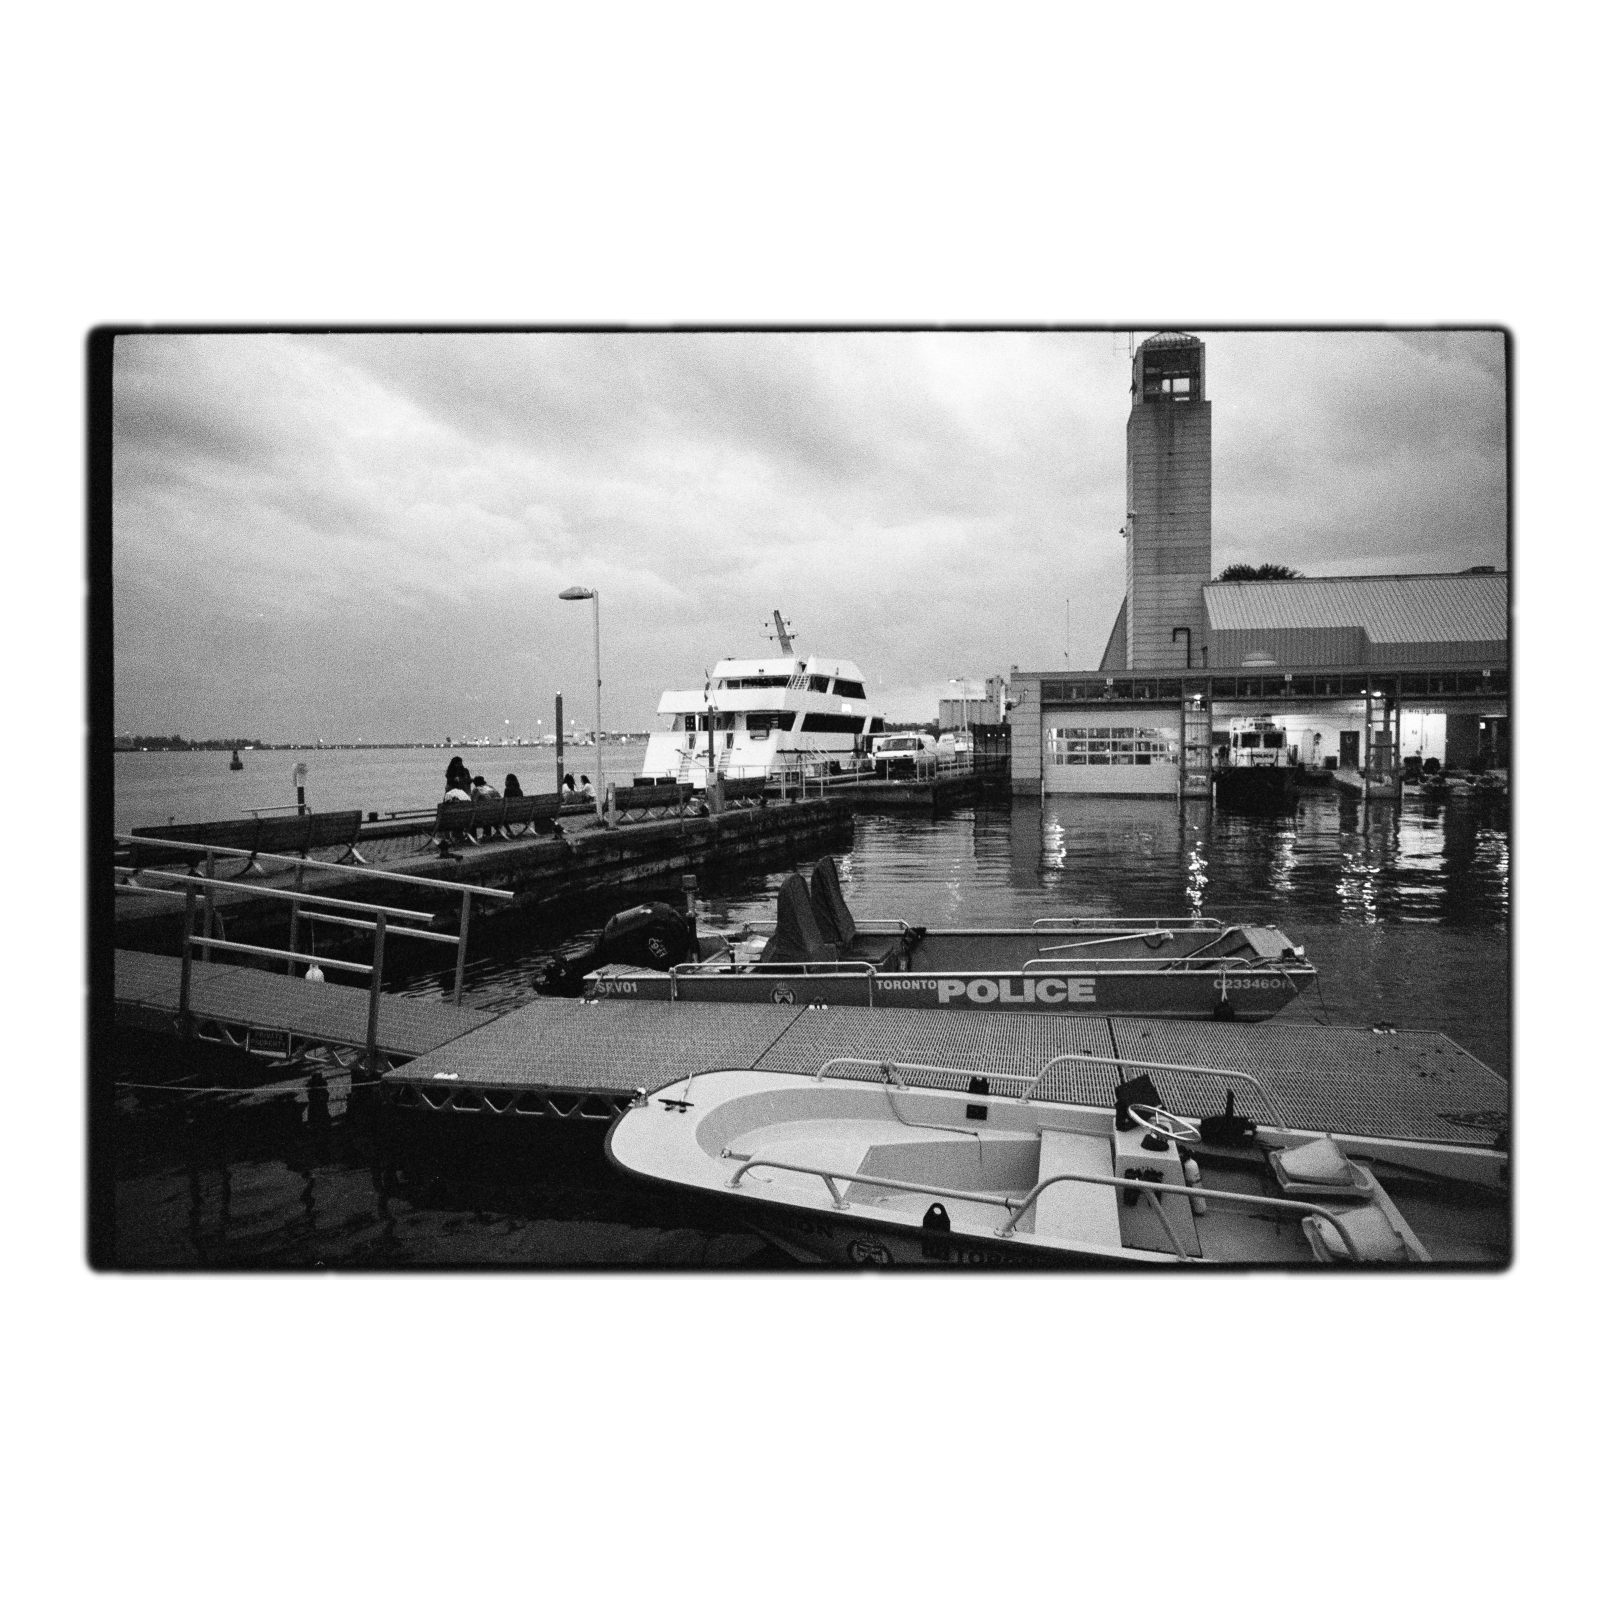
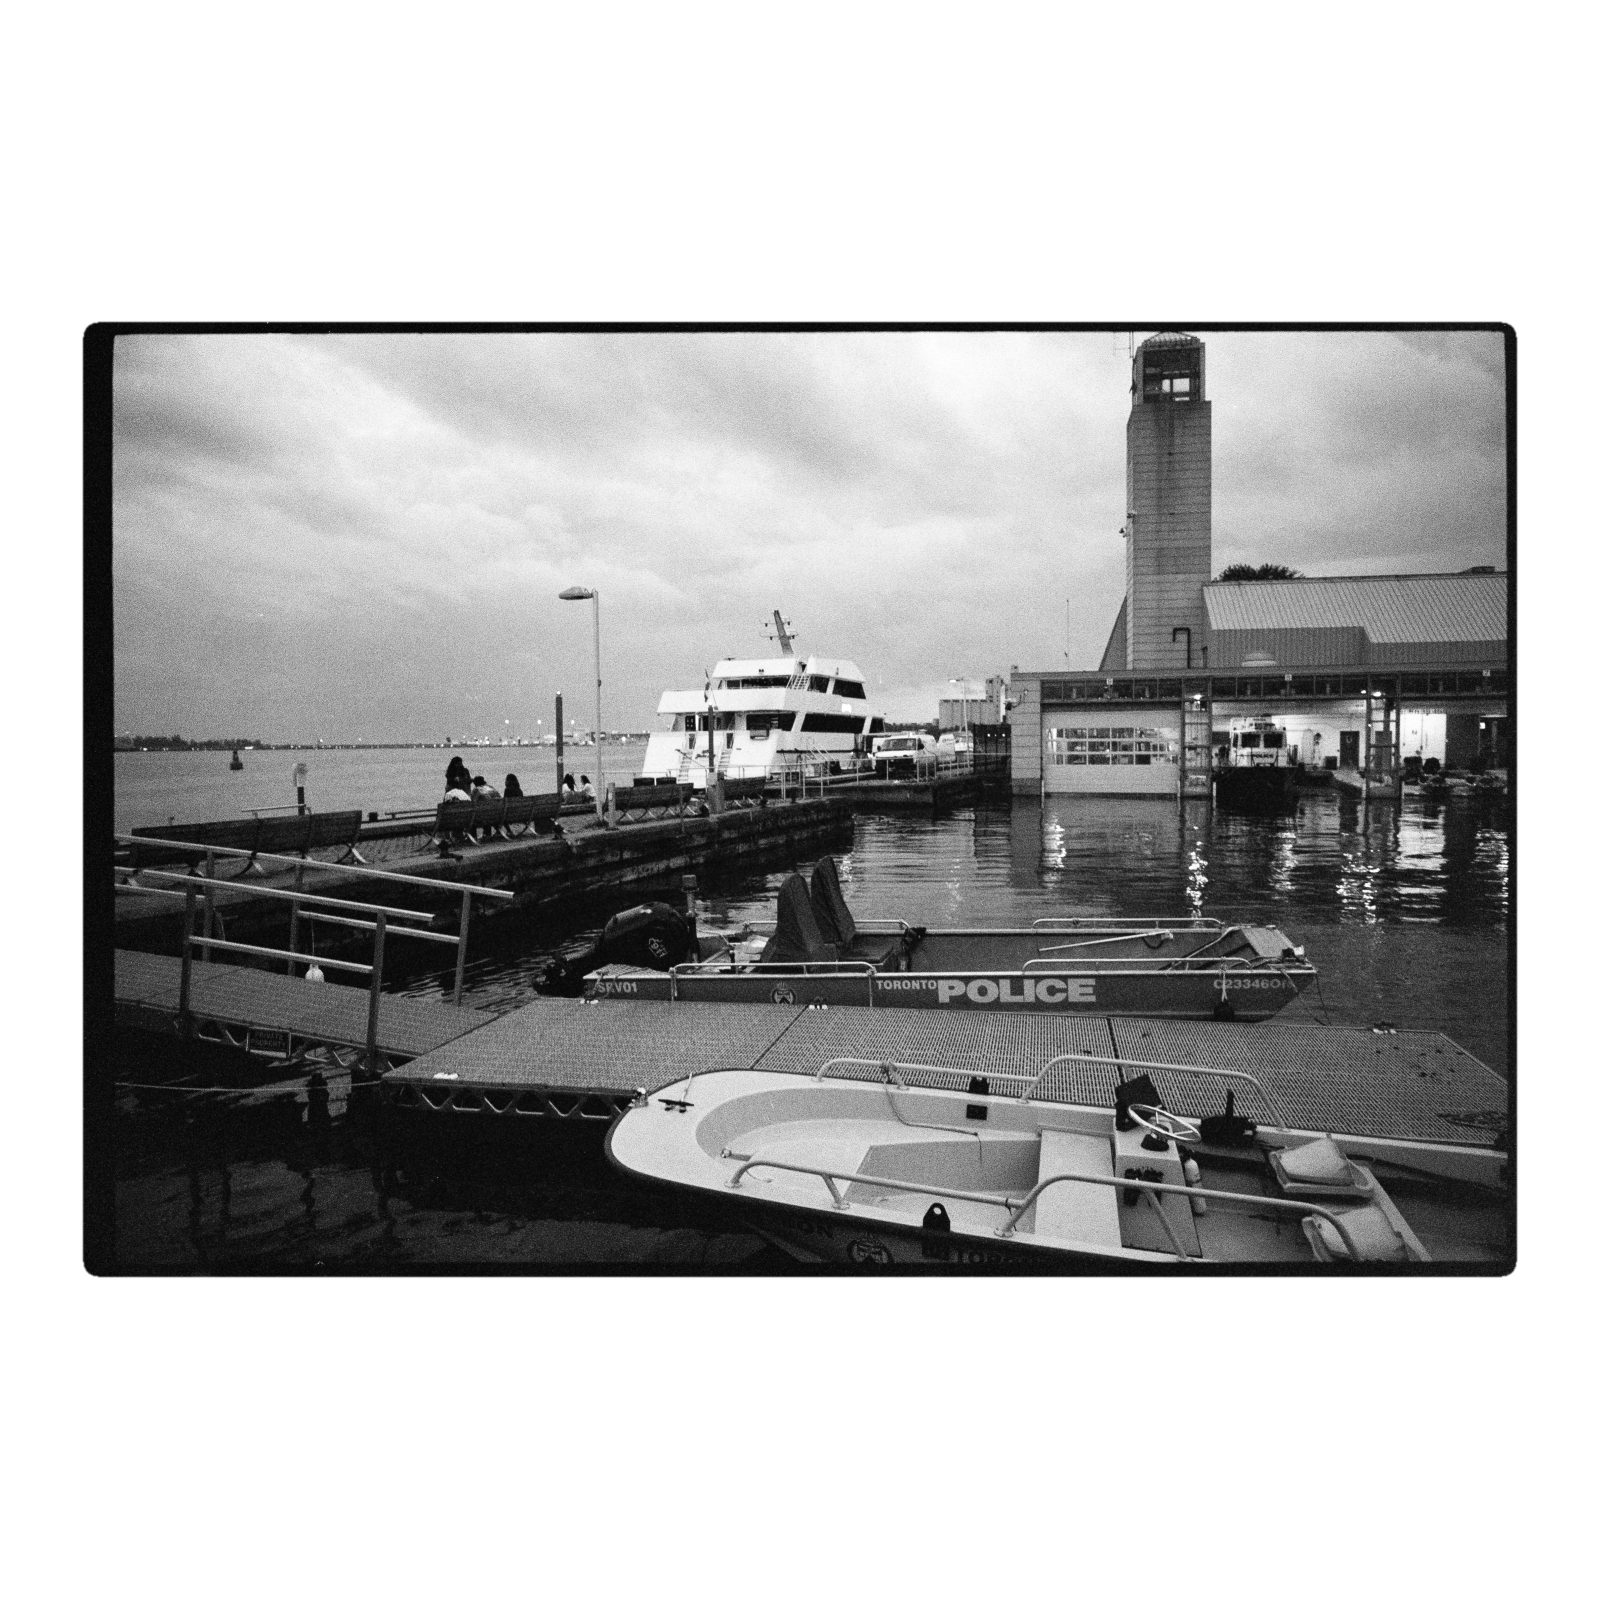
Scale feather/roughness by output size so downscaled outputs aren't proportionally softer

Changed region(s): [[0.0312, 0.1875, 0.9688, 0.8125]]

diff --git a/rebate.py b/rebate.py
@@ -429,7 +429,10 @@ def compose_on_white(crop, size, margin_frac, radius_frac, roughness,
     else:
         factor = 1.0
     radius = max(0, int(round(base_radius * factor)))
-    mask = _organic_mask(dw, dh, radius, roughness, feather, seed)
+    # roughness/feather are defined at native scale; scale them so a downscaled
+    # output looks the same as native rather than proportionally softer.
+    mask = _organic_mask(dw, dh, radius, roughness * scale, feather * scale,
+                         seed)
 
     canvas = np.full((canvas_h, canvas_w, 3), 255, np.uint8)
     ox = (canvas_w - dw) // 2
